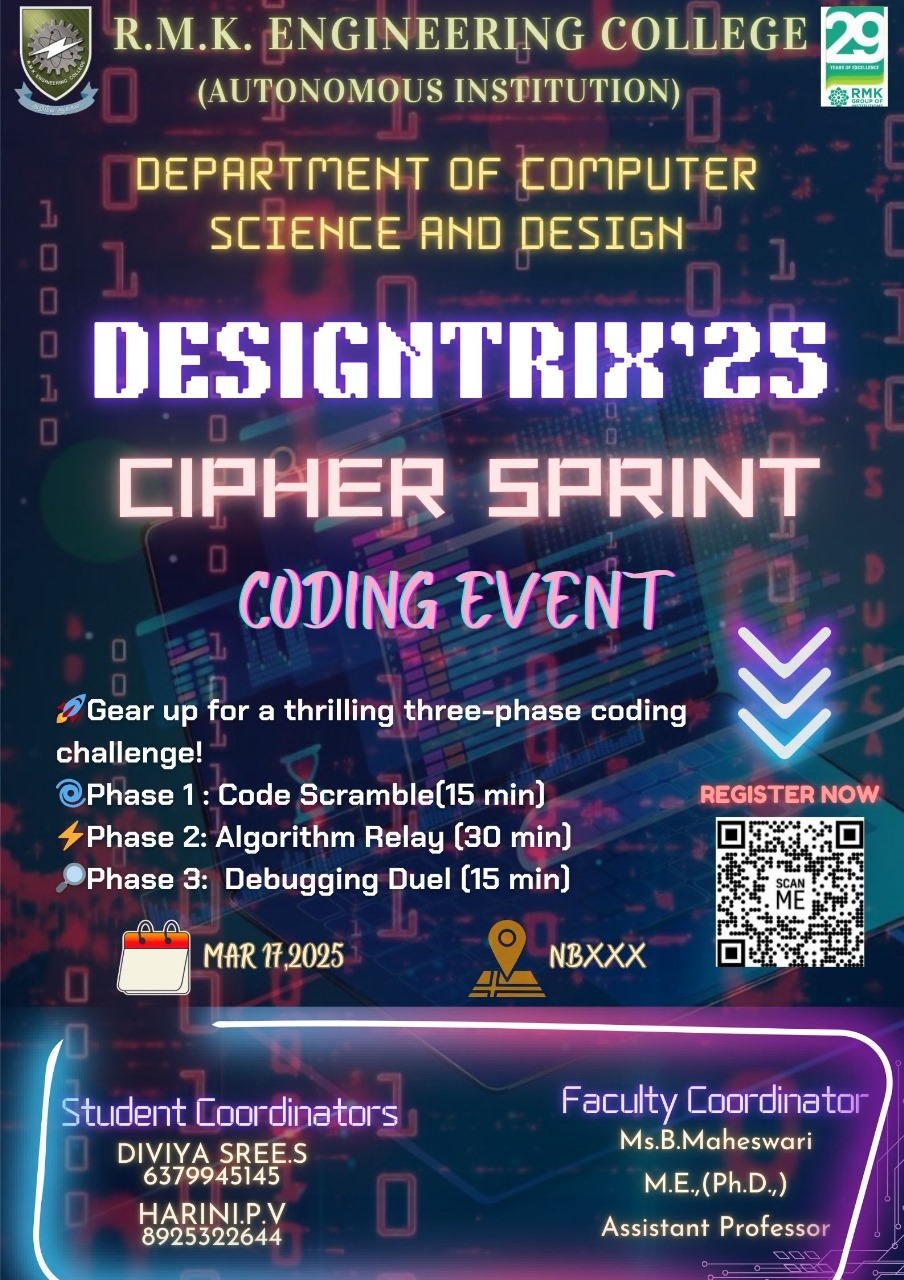
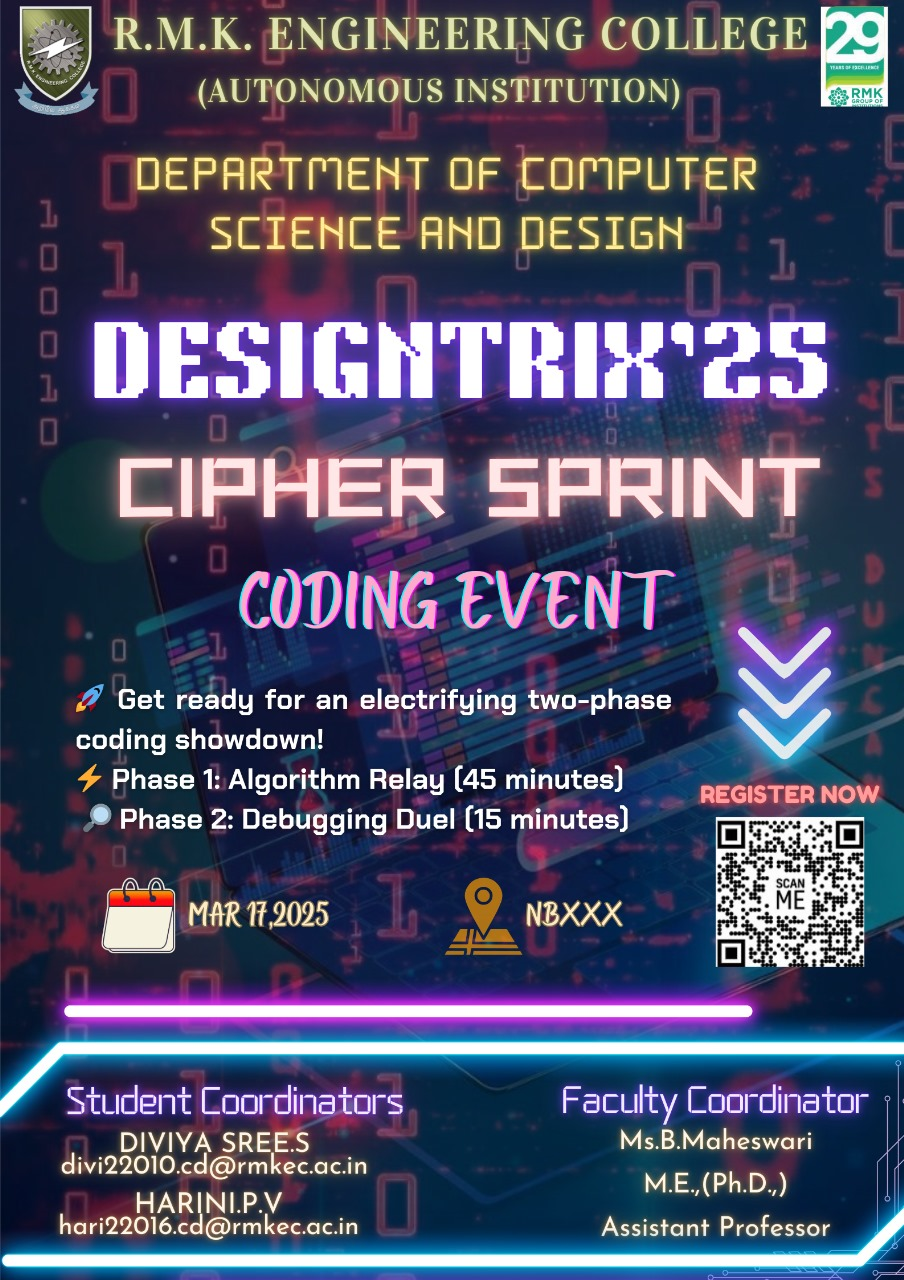
fixed issues

Changed region(s): [[0.0, 0.5312, 1.0, 1.0], [0.3097, 0.4375, 0.3407, 0.4688]]

diff --git a/src/data.jsx b/src/data.jsx
@@ -33,15 +33,22 @@ export const events = [
     bigImg: "/images/poster/coding.jpg",
     smallImg: "/images/logo/coding.jpg",
     rules: [
-      `ROUND 1: Code Scramble (15 mins)
-       Rearrange and fix a scrambled code snippet, removing misleading lines for extra points.`,
-      `ROUND 2: Algorithm Arena (30 mins),
-      Solve 4 coding problems (1 Easy, 2 Medium, 1 Hard) with bonus challenges for extra points.`,
-      `ROUND 3: Debug & Hack (15 mins)
-      Debug and optimize faulty code, finding a hidden mystery bug for bonus points.`,
+      `Round 1: Algorithm Arena (45 mins)
+🔹 Challenge: Solve 3 coding problems:  
+   - 1 Easy  
+   - 2 Medium  
+🔹 Goal: Submit correct and optimized solutions for all problems.  
+🔹 Twist: Each problem includes bonus challenges—complete them for extra points!  `,
+      `ROUND 2: Round 2: Debug & Hack (15 mins)
+🔹 Challenge:Debug and optimize a faulty code snippet.  
+🔹 Goal: Identify and fix all errors to improve efficiency.  
+🔹 Twist: A hidden mystery bug is lurking—discover and fix it for bonus points!
+`,
     ],
-    bgLeftGrad:"bg-gradient-to-r from-orange-600/60 via-rose-500/40 to-transparent",
-    bgRightGrad:"bg-gradient-to-l from-orange-600/40 via-rose-500/20 to-transparent",
+    bgLeftGrad:
+      "bg-gradient-to-r from-orange-600/60 via-rose-500/40 to-transparent",
+    bgRightGrad:
+      "bg-gradient-to-l from-orange-600/40 via-rose-500/20 to-transparent",
   },
   {
     name: "AIArtWar Technical",
@@ -55,9 +62,10 @@ export const events = [
       "Participants must use the specific AI art generator which will be revealed at the event.",
       "AI-generated images must be original creations. No direct modifications of existing artworks.",
     ],
-    bgLeftGrad: "bg-gradient-to-r from-purple-600/60 via-indigo-500/40 to-transparent",
-    bgRightGrad: "bg-gradient-to-l from-purple-600/40 via-indigo-500/20 to-transparent"
-
+    bgLeftGrad:
+      "bg-gradient-to-r from-purple-600/60 via-indigo-500/40 to-transparent",
+    bgRightGrad:
+      "bg-gradient-to-l from-purple-600/40 via-indigo-500/20 to-transparent",
   },
   {
     name: "VisionaryVox Technical",
@@ -71,9 +79,11 @@ export const events = [
       "REGISTRATION: No on-spot registration – all teams must register in advance.",
       "RESULT: Judges decisions are final",
     ],
-    bgLeftGrad: "bg-gradient-to-r from-green-600/60 via-teal-500/40 to-transparent",
-    bgRightGrad: "bg-gradient-to-l from-green-600/40 via-teal-500/20 to-transparent",
-    imageModify:""
+    bgLeftGrad:
+      "bg-gradient-to-r from-green-600/60 via-teal-500/40 to-transparent",
+    bgRightGrad:
+      "bg-gradient-to-l from-green-600/40 via-teal-500/20 to-transparent",
+    imageModify: "",
   },
   {
     name: "SquidBid Non-Technical",
@@ -86,11 +96,12 @@ export const events = [
       "BIDDING: Direct bids allowed unsold players won’t return.",
       "DECISIONS: Auctioneer’s call is final. Disputes = Disqualification.",
       "CONDUCT: Respect all; misconduct leads to disqualification.",
-      "DISQUALIFICATION: Insufficient funds or rule violations."
+      "DISQUALIFICATION: Insufficient funds or rule violations.",
     ],
-    bgLeftGrad: "bg-gradient-to-r from-pink-600/60 via-fuchsia-500/40 to-transparent",
-    bgRightGrad: "bg-gradient-to-l from-pink-600/40 via-fuchsia-500/20 to-transparent"
-
+    bgLeftGrad:
+      "bg-gradient-to-r from-pink-600/60 via-fuchsia-500/40 to-transparent",
+    bgRightGrad:
+      "bg-gradient-to-l from-pink-600/40 via-fuchsia-500/20 to-transparent",
   },
   {
     name: "FlickPicks Non-Technical",
@@ -105,10 +116,10 @@ Players guess the movie or song based on a sequence of images revealed over time
       "ASSISTANCE: No audience support is allowed at any stage.",
       "RESULTS: The final results are determined solely by the organizers.",
     ],
-    bgLeftGrad: "bg-gradient-to-r from-yellow-500/70 via-amber-500/50 to-transparent",
-bgRightGrad: "bg-gradient-to-l from-yellow-500/50 via-amber-500/30 to-transparent"
-
-
+    bgLeftGrad:
+      "bg-gradient-to-r from-yellow-500/70 via-amber-500/50 to-transparent",
+    bgRightGrad:
+      "bg-gradient-to-l from-yellow-500/50 via-amber-500/30 to-transparent",
   },
 ];
 
@@ -118,33 +129,36 @@ export const contact = {
   loc: "R.M.K. Engineering College",
   instaLink: "",
 };
-export const rules ={
-  mainText:"Who doesn't like rules? Let us share ours!!",
-  description:[`PARTICIPANTS ARE HEREBY INFORMED THAT T-SHIRTS, JEANS AND
+export const rules = {
+  mainText: "Who doesn't like rules? Let us share ours!!",
+  description: [
+    `PARTICIPANTS ARE HEREBY INFORMED THAT T-SHIRTS, JEANS AND
 OTHER CASUALS ARE STRICTLY PROHIBITED INSIDE OUR CAMPUS.
  GENTLEMEN ARE REQUESTED TO WEAR FORMALS AND SHOES
 COMPULSORILY.`,
- `LADIES ARE REQUESTED TO WEAR ONLY SALWARS.
+    `LADIES ARE REQUESTED TO WEAR ONLY SALWARS.
 USE OF MOBILE PHONES INSIDE THE COLLEGE PREMISES IS STRICTLY
 PROHIBITED.`,
- `ALL THE PARTICIPANTS SHOULD ADHERE TO THE RULES AND
+    `ALL THE PARTICIPANTS SHOULD ADHERE TO THE RULES AND
 REGULATIONS OF THE COLLEGE.`,
-`ANYONE VIOLATING THE ABOVE RULES WILL NOT BE ALLOWED TO
+    `ANYONE VIOLATING THE ABOVE RULES WILL NOT BE ALLOWED TO
 PARTICIPATE IN THE EVENT.`,
   ],
-  link:"https://drive.google.com/file/d/1nsx3Tf0Cc_iH-ORfzyM-BshhhsL0OM1j/view",
-}
-export const busRoutes={
-  mainText:"We make it easy to reach us 😇",
-  link:"https://drive.google.com/file/d/16CQ5cOTd6pE6aNk-YClcblwn99VyvW_g/view",
-}
-export const prizes={
-  mainText:"💵Exciting prizes and more fun awaits",
-  description:["Diverse Challenges Await! – Test your skills across multiple exciting categories and prove you're the best.",
+  link: "https://drive.google.com/file/d/1nsx3Tf0Cc_iH-ORfzyM-BshhhsL0OM1j/view",
+};
+export const busRoutes = {
+  mainText: "We make it easy to reach us 😇",
+  link: "https://drive.google.com/file/d/16CQ5cOTd6pE6aNk-YClcblwn99VyvW_g/view",
+};
+export const prizes = {
+  mainText: "💵Exciting prizes and more fun awaits",
+  description: [
+    "Diverse Challenges Await! – Test your skills across multiple exciting categories and prove you're the best.",
 
-"Showcase Your Talent! – Compete against top contenders and gain recognition for your expertise.",
+    "Showcase Your Talent! – Compete against top contenders and gain recognition for your expertise.",
 
-"Unforgettable Rewards! – Win prizes, earn bragging rights, and make memories that last a lifetime."],
-}
+    "Unforgettable Rewards! – Win prizes, earn bragging rights, and make memories that last a lifetime.",
+  ],
+};
 
-export const regLink="https://forms.gle/8DBPu919xZab1DeHA"
+export const regLink = "https://forms.gle/8DBPu919xZab1DeHA";

diff --git a/src/pages/Images.jsx b/src/pages/Images.jsx
@@ -54,7 +54,7 @@ export default function Images() {
   ];
 
   return (
-    <div ref={container} className="container">
+    <div ref={container} className="container max-sm:hidden">
       <div className="sticky">
         {pictures.map(({ src, scale }, index) => {
           return (
